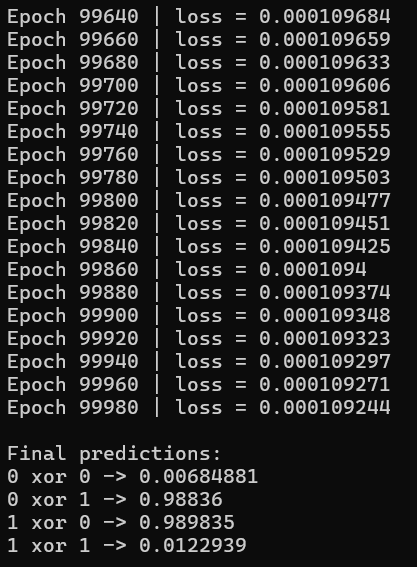
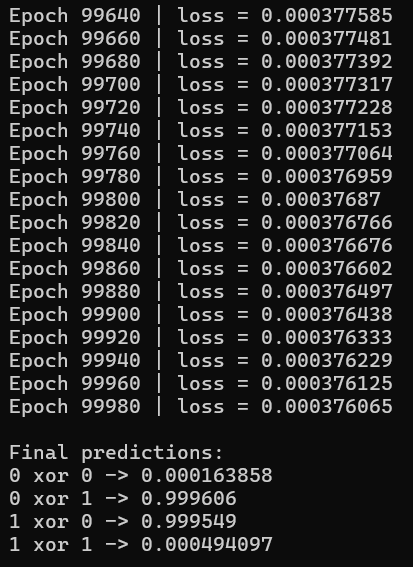
updated README.md

Changed region(s): [[0.0, 0.0, 0.9588, 0.7496], [0.0, 0.7795, 0.6683, 0.9894]]

diff --git a/README.md b/README.md
@@ -1,128 +1,193 @@
 # mini-dl-framework
-Modern deep learning frameworks such as PyTorch abstract away many important implementation details.
-This project aims to re-implement core components from first principles to gain a deeper understanding of:
 
-- tensor abstractions
-- reverse-mode automatic differentiation
-- neural network training pipelines
-- performance considerations in numerical computing
+A minimal deep learning framework implemented from scratch in modern C++.
 
----
-## Results
-
-### XOR Training
-
-A two-layer MLP was trained on the XOR problem.
-
-Final prediction after training:
-
-- `0 xor 0 -> 0.0068`
-- `0 xor 1 -> 0.9884`
-- `1 xor 0 -> 0.9898`
-- `1 xor 1 -> 0.0123`
-
-![XOR Training](assets/xor_training.png)
-
-
-This demonstrates that the framework supports forward computation, gradient proagation,
-parameter updates, and successful learning of a non-linearly separable problem.
+This project was developed to gain a deep understanding of:
+- automatic differentiation (reverse-mode autograd)
+- neural network training
+- tensor operations and computational graphs
+- low-level system design for ML frameworks
 
 ---
 
-## Implemented Features
+## Features
 
-- Tensor class with basic operations (`add`, `mul`, `matmul`, `sum`)
-- Reverse-mode autodiff with dynamic computation graph
-- Backward propagation for element-wise ops and matrix multiplication
-- Trainable `Linear` layer
-- Actiovation functions: `ReLU`, `Sigmoid` ,`Tanh`
-- Loss functions: Mean squared error (`MSE`), Binary Cross Entropy Loss (`BCE`)
-- Stochastic gradient descent (`SGD`) optimizer
-- End-to-end XOR training demo (non-linear learning)
-- IDX-based MNIST data loader
-- Initial MLP prototype for MNIST classificaiton
-
----
-
-## Planned Features
-
-- Softmax activation
-- CrossEntropy loss
-- Improved evaluation pipeline
-- MNIST training
-- SIMD-optimized matrix operations
+- Custom **Tensor** implementation
+- Reverse-mode **Autograd Engine**
+- Core tesnor ops: `add`, `mul`, `matmul`, `sum`
+- Neural network layers:
+	- `Linear`
+- Activation functions:
+	- ReLU, Sigmoid, Tanh, Softmax
+- Loss funcions:
+	- MSE, Binary Cross Entropy, Cross Entropy
+- Optimizer:
+	- SGD
+- Training pipelines:
+	- XOR (sanity check)
+	- MNIST (multi-class classification)
 
 ---
 
 ## Architecture
 
-Core components:
+The framework is designed with a clear separation of concerns:
 
-- **Tensor**: stores values, gradients, shape, and graph connectivity
-- **Autograd Engine**: reverse-mode autodiff over a dynamic computation graph
-- **Operations**: add, mul, matmul, sum, activations
-- **Modules**: trainable layers such as `Linear` and model composition via `Sequential`
-- **Losses**: MSE, CrossEntropy
-- **Optimizers**: parameter updates via SGD
+- **Tensor**
+	- stores data, gradients, and graph connections
+- **Autograd Engine**
+	- builds computation graph
+	- performs reverse-mode differentiation
+- **Operations**
+	- define forward pass and local backward functions
+- **Modules**
+	- abstraction for neural network layers
+- **Optimizer**
+	- updates parameters via gradient descent
 
----
-
-## Roadmap
-
-- [X] Project setup
-- [X] Basic tensor operations
-- [X] Initial autograd engine
-- [X] Sum reduction and gradient checks
-- [X] Matmul backward propagation
-- [X] Linear layers
-- [X] Activation functions
-- [X] Loss functions
-- [X] Optimizers
-- [X] XOR training demos
-- [X] MNIST data loading
-- [X] MNIST MLP prototype
-- [X] Softmax / CrossEntropy
-- [ ] SIMD optimizations
+This mirrors the design principles of modern frameworks like PyTorch, but in a minimal and educational form.
 
 ---
 
-## Current Status
+## Results
 
-The framework currently supports:
-- scalar and tensor-based forward computation
-- reverse-mode automatic differentiation
-- gradient propagation through `add`, `mul`, `sum`, and `matmul`
-- simple trainable layers and loss evaluation
-- simple optimization with SGD
-- an initial XOR learning demo
+### XOR (Sanity Check)
 
-Initial tests have been added for:
-- tensor operations
-- scalar autograd correctness
-- gradient checks
-- matrix multiplication backward propagation
+Simple feedforward network trained to learn XOR:
 
----
+- `0 xor 0 -> 0.00016`
+- `0 xor 1 -> 0.99961`
+- `1 xor 0 -> 0.99955`
+- `1 xor 1 -> 0.00049`
 
-## Goals
+![XOR Training](assets/xor_training.png)
 
-The goal is not to compete with production frameworks, but to build a minimal, well-structured system that exposes the 
-internal mechanics of deep learning systems.
+Successfully learns non-linear boundary
 
 ---
 
-## Future Work
+### MNIST (Handwritten Digit Classification)
 
-- SIMD acceleration (AVX)
-- Convolution layers
-- Model serialization
-- Performance benchmarking
+Model:
+- Input: 784 (28x28)
+- Architecture: 784 -> 128 -> 64 -> 10
+- Activation: ReLU
+- Output: Softmax
+- Loss: Cross Entropy
+- Optimizer: SGD
 
+
+training on 1000 samples:
+
+```
+Epoch 0 | loss = 1.67614 | accuracy = 60.3%
+Epoch 1 | loss = 0.462179 | accuracy = 84.1%
+Epoch 2 | loss = 0.235046 | accuracy = 92.4%
+Epoch 3 | loss = 0.114682 | accuracy = 96.1%
+Epoch 4 | loss = 0.0428207 | accuracy = 99.1%
+```
+
+Sample predictions:
+```
+Sample 0 | predicated = 5 | actual = 5
+Sample 1 | predicated = 0 | actual = 0
+Sample 2 | predicated = 4 | actual = 4
+Sample 3 | predicated = 1 | actual = 1
+Sample 4 | predicated = 9 | actual = 9
+```
+
+Demonstrates correct gradient flow and learning capability
+Confirms stability of autograd + traing pipeline
 
 ---
 
-## Motivation
+## Build & Run
 
-This porject was developed to gain a deeper understanding of how deep learning
-frameworks work internally, including gradient propagation, computational graphs,
-and training dynamics.
+### Requirements
+- C++17
+- CMake ≥ 3.16
+- Visual Studio / GCC / Clang
+
+### Build
+
+```
+mkdir build
+cd build
+cmake ..
+cmake --build .
+
+```
+
+## Run examples
+
+```
+./xor_example
+./mnist_mlp
+
+```
+
+---
+
+## Project Structure
+
+```
+include/
+├── tensor.h
+├── autograd.h
+├── module.h
+├── linear.h
+├── activations.h
+├── losses.h
+├── optimizer.h
+├── mnist.h
+└── utils.h
+
+src/
+├── tensor.cpp
+├── autograd.cpp
+├── module.cpp
+├── linear.cpp
+├── activations.cpp
+├── losses.cpp
+├── optimizer.cpp
+├── mnist.cpp
+└── utils.cpp
+
+examples/
+├── xor.cpp
+└── mnist_mlp.cpp
+
+tests/
+├── test_activations.cpp
+├── test_autograd.cpp
+├── test_bce_loss.cpp
+├── test_gradient_check.cpp
+├── test_linear_training.cpp
+├── test_matmul_autograd.cpp
+├── test_mnist_loader.cpp
+├── test_softmax_cross_entropy.cpp
+├── test_tensor.cpp
+└── test_utils.cpp
+
+```
+
+---
+
+### Motivation
+
+The goal of this project is not performance, but **understanding**.
+
+By implementing all components manually:
+- the full backpropagation pipeline becomes transparent
+- tensor operations and gradients are no longer "black boxes"
+- architectural trade-offs become explicit
+
+---
+
+### Future Work
+- Mini-batch training
+- Better optimizers (Adam, RMSProp)
+- SIMD / vectorized operations
+- GPU acceleration
+- Convolutional layers
+- Dataset abstractions
